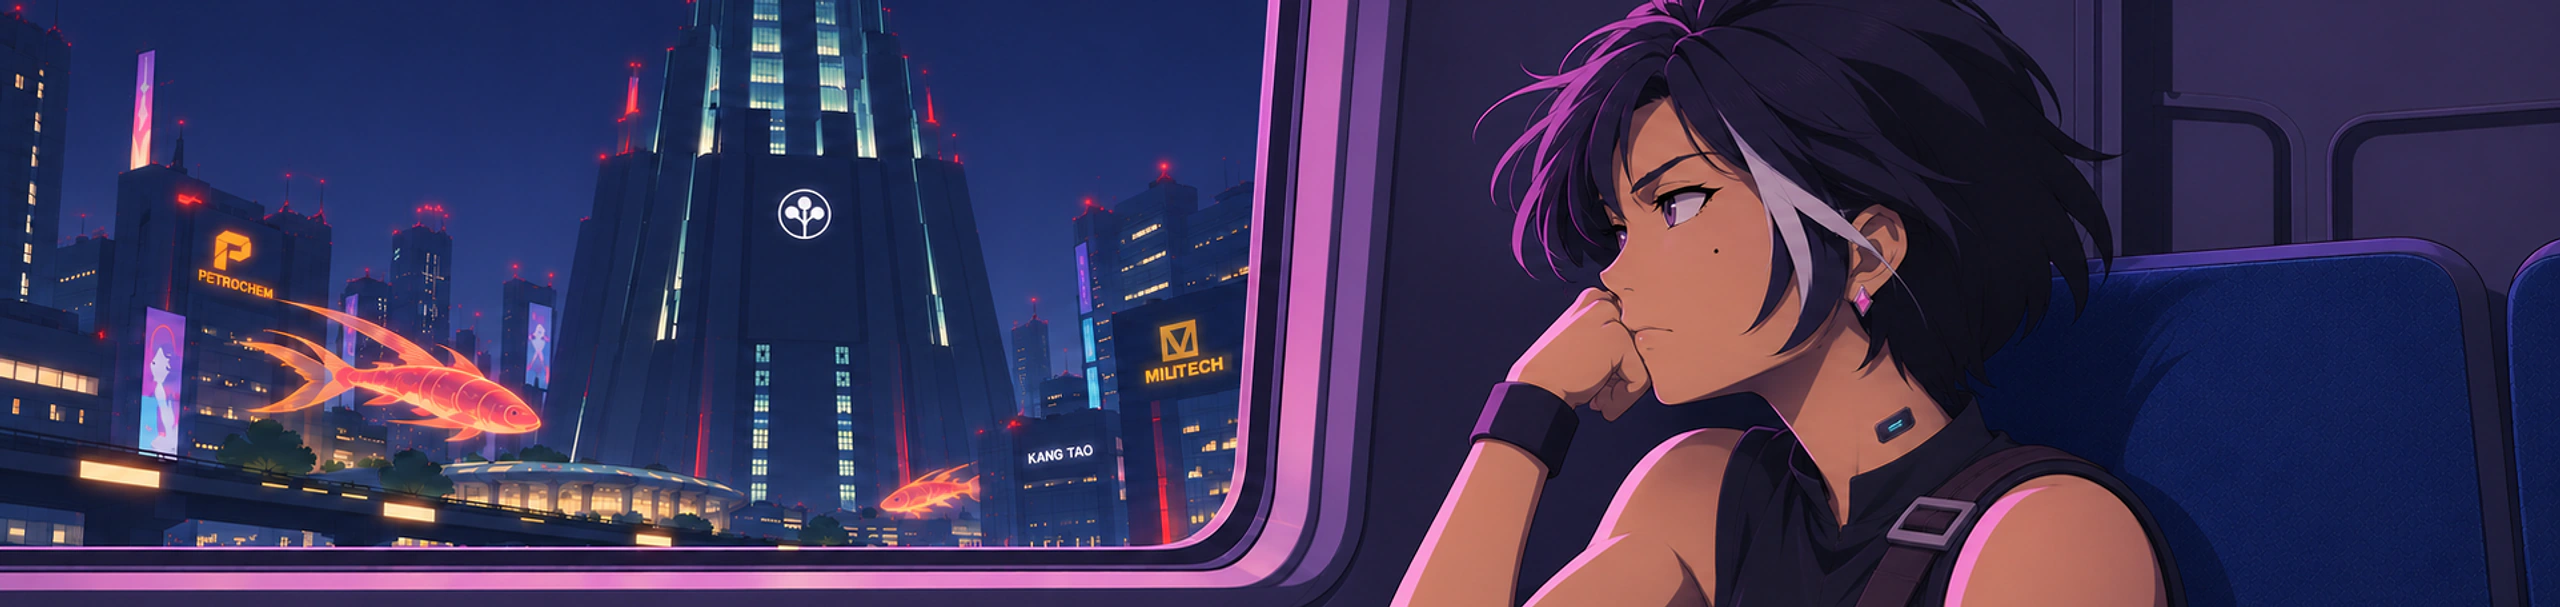
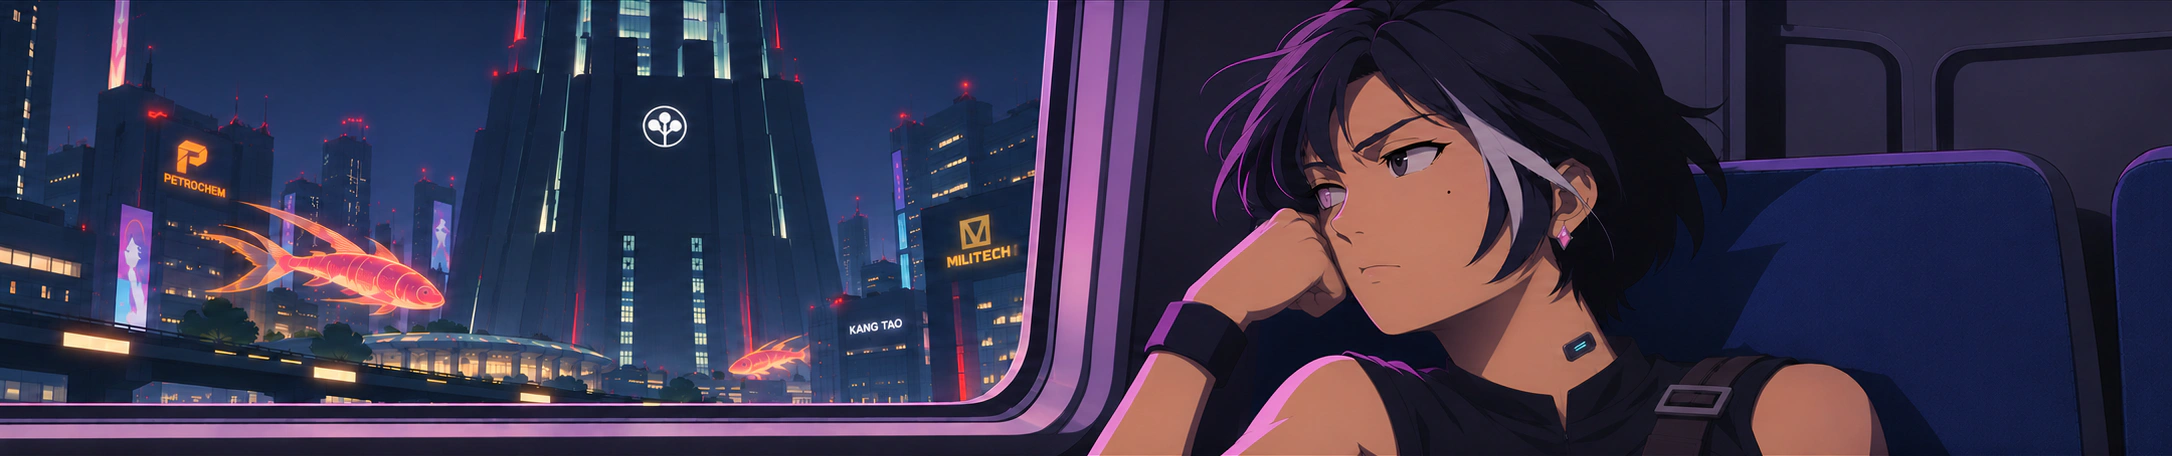
feat(profile): 适配黄铜星盘与末班信号并恢复默认窗景

diff --git a/polyhouse-web/src/views/AccountView.vue b/polyhouse-web/src/views/AccountView.vue
@@ -412,16 +412,28 @@ onMounted(() => {
   background: white;
 }
 .profile-cover {
-  --cover-art: url('../assets/profile-koi-panorama.webp');
+  --cover-art: url('../assets/profile-window-panorama.webp');
   height: 180px;
-  background:
-    radial-gradient(ellipse 150px 54px at 68px 33px, #121528b8 36%, transparent),
-    var(--cover-art) 25% 60% / cover no-repeat #17192e;
   padding: 25px 34px;
-  color: #fff;
+  background: #f8dfc0 var(--cover-art) 92% center / cover no-repeat;
+  color: var(--ph-ink);
   font-size: 13px;
   letter-spacing: 0.08em;
 }
+.profile-cover[data-cover='koi'],
+.profile-cover[data-cover='astrolabe'] {
+  color: #fff;
+  background:
+    radial-gradient(ellipse 150px 54px at 68px 33px, #121528cc 36%, transparent),
+    var(--cover-art) 76% center / cover no-repeat #17192e;
+}
+.profile-cover[data-cover='koi'] {
+  --cover-art: url('../assets/profile-koi-panorama.webp');
+}
+.profile-cover[data-cover='astrolabe'] {
+  --cover-art: url('../assets/profile-astrolabe-panorama.webp');
+}
+
 .profile-overview {
   display: flex;
   gap: 24px;
@@ -799,10 +811,15 @@ h1 {
   }
 }
 @media (max-width: 560px) {
-  /* 窄屏补足车厢上下空间，避免横向裁掉人物或窗外的光鱼。 */
   .profile-cover {
+    --cover-art: url('../assets/profile-window-closeup.webp');
+    background-position: 67% center;
+  }
+  .profile-cover[data-cover='koi'] {
     --cover-art: url('../assets/profile-koi-closeup.webp');
-    background-position: center, 25% center;
+  }
+  .profile-cover[data-cover='astrolabe'] {
+    --cover-art: url('../assets/profile-astrolabe-closeup.webp');
   }
 }
 </style>

diff --git a/docs/dev-log/v1.0-dev.15.md b/docs/dev-log/v1.0-dev.15.md
@@ -2,7 +2,7 @@
 
 ## 当前摘要
 
-- [窗边初晴默认封面](#窗边初晴默认封面)已在 `feat/profile-card-backgrounds` 完成双端接入与验收。首轮选中 G，[S3 光鱼稿](#光鱼卡面实装预览)已修整临窗坐姿并试装，待用户定稿。
+- [窗边初晴默认封面](#窗边初晴默认封面)。默认 A「窗边初晴」已恢复，G「黄铜星盘」与暂定 S3「末班信号」已保存双端素材并通过九档宽度检查。硬币解锁待后续。
 
 - [前端精修 F4 与 F5](#前端精修-f4-与-f5)已完成：分支 `feat/frontend-polish-f4-f5`（基于 `dev` `6a30010`）零后端完成管理后台页眉/等宽数字/空态/窄屏筛选统一、全站星潮语义变量收敛、星潮与发布台页底去米黄改纯白 `#ffffff`、冷雾骨架屏，并通过构建、Lint、356 项单测、技能校验与 7 页 × 6 断点真实浏览器走查，待确认合入 `dev`；至此前端精修清单 F1～F5 全部闭环。
 - [星潮横幅 5:1 全景延展](#星潮横幅-51-全景延展)已完成：经 PR #14 合入 `dev`（`6a30010`）；`startide-tide-atlas.webp` 重调并延展为清浅月夜 `2800×560` 全景，移除 CSS 镜像拼接。
@@ -22,6 +22,12 @@
 - 首页星潮卡面、公开目录、详情和发布台已完成[前端专项](../plans/startide-reader-redesign.md)第 1～3 步，第 4 步读者路径与隔离屋主发布已联调。采集补全、README 选段、发布统计、未出稿原因与复用日期完成本机工程阶段。11 月 21 日常规采集截图已有新稿，读者反馈正文难懂。[工程收口与文章交接](#工程收口与文章交接)保留来源、范围与待验项。
 - 已核对 `nextlevelbuilder/ui-ux-pro-max-skill`，仍保留正式版 v2.15.0。WSL 服务重启后 Ubuntu 和原 Redis 检查均已恢复。[星潮启动入口](../operations/github-tech-radar.md#本机启动与首次阅读)留有 Docker 备用方式。常规 IDEA 启动默认可读日报和手动更新。
 - 用户确认在现有工程约定内明确两点：新增逻辑按模块职责归属，局部兼容重构须服务于当前任务并验证既有行为。
+
+## 双端收藏卡面
+
+- 2026-11-24 从暂定原姿势稿裁出 S3，从选型板第六幅提取 G，分别保存桌面全景和手机近景。个人页默认 A，收藏样式由卡面元素的 data-cover 属性选取。
+- 前端 build、lint:check、119 项用户测试通过。在 Edge 使用模拟账号为三款各检查九档宽度，布局与基线一致，标签对比度均通过，检查键鼠和慢图、断图。
+- [G 桌面](../design/profile-covers/account-astrolabe-desktop.png) · [G 手机](../design/profile-covers/account-astrolabe-mobile.png) · [S3 桌面](../design/profile-covers/account-koi-desktop.png) · [S3 手机](../design/profile-covers/account-koi-mobile.png)。旧版侧身试装可按提交 5acfc1e 查阅。
 
 ## 光鱼卡面实装预览
 

diff --git a/DEV_LOG.md b/DEV_LOG.md
@@ -2,7 +2,7 @@
 
 更新时间：2026-11-24（Asia/Shanghai）。**v1.0 开发中。**
 
-- [个人空间卡面](docs/plans/profile-card-backgrounds.md)已在专项分支完成默认 A 双端接入和九档宽度验收。首轮选中 G，[S3「末班信号」](docs/dev-log/v1.0-dev.15.md#光鱼卡面实装预览)已按用户提供的图修整临窗坐姿，在个人页完成双端试装，正式选用待定。
+- [个人空间卡面](docs/plans/profile-card-backgrounds.md)。默认 A「窗边初晴」已恢复，G「黄铜星盘」与暂定 S3「末班信号」已保存双端素材并通过九档宽度检查。硬币解锁待后续。
 
 - [前端精修 F4 与 F5](docs/dev-log/v1.0-dev.15.md#前端精修-f4-与-f5)已完成：分支 `feat/frontend-polish-f4-f5` 零后端完成后台视觉统一、星潮语义变量收敛与去米黄改纯白 `#ffffff`，构建、356 项单测、技能校验与 7 页×6 断点走查通过，待确认合入 `dev`；[F1/F3](docs/dev-log/v1.0-dev.15.md#前端精修-f1-与-f3)（PR #12）、[F2](docs/dev-log/v1.0-dev.15.md#前端精修-f2-工作台页头减重)（PR #13）与[星潮月夜横幅](docs/dev-log/v1.0-dev.15.md#星潮横幅-51-全景延展)（PR #14）已合入 `dev`（`6a30010`）。
 - [首页收尾区](docs/plans/home-closing-section.md)最终采用方案 A，工具列表直接接页脚，专项分支已验。[验收记录](docs/dev-log/v1.0-dev.15.md#首页收尾区方案)

diff --git a/docs/plans/README.md b/docs/plans/README.md
@@ -4,7 +4,7 @@
 
 | 计划 | 状态 | 所属阶段 |
 | --- | --- | --- |
-| [个人空间卡面与硬币解锁](profile-card-backgrounds.md) | 已选默认 A、收藏方向 G。S3 光鱼稿已在本地个人页试装，待看双端效果 | [dev.15](../dev-log/v1.0-dev.15.md#光鱼卡面实装预览) |
+| [个人空间卡面与硬币解锁](profile-card-backgrounds.md) | 默认 A「窗边初晴」已恢复，G「黄铜星盘」与暂定 S3「末班信号」已保存双端素材并通过九档宽度检查。硬币解锁待后续。 | [dev.15](../dev-log/v1.0-dev.15.md#双端收藏卡面) |
 | [前端视觉与体验精修候选清单](frontend-polish-phase.md) | 候选清单（F1～F5），待按项确认后分批立项实施 | 待立项（`dev` `363d5fe` 后） |
 | [首页工具列表之后，留什么？](home-closing-section.md) | 预览 B 后最终采用 A，独立说明区已移除，旧书签落到页脚 | [dev.15](../dev-log/v1.0-dev.15.md#首页收尾区方案) |
 | [GitHub 开源技术雷达](github-tech-radar.md) | G4 真实小样本对账通过，G6 真实联调及本机开发库迁移完成，云端待验 | [dev.15](../dev-log/v1.0-dev.15.md) |
